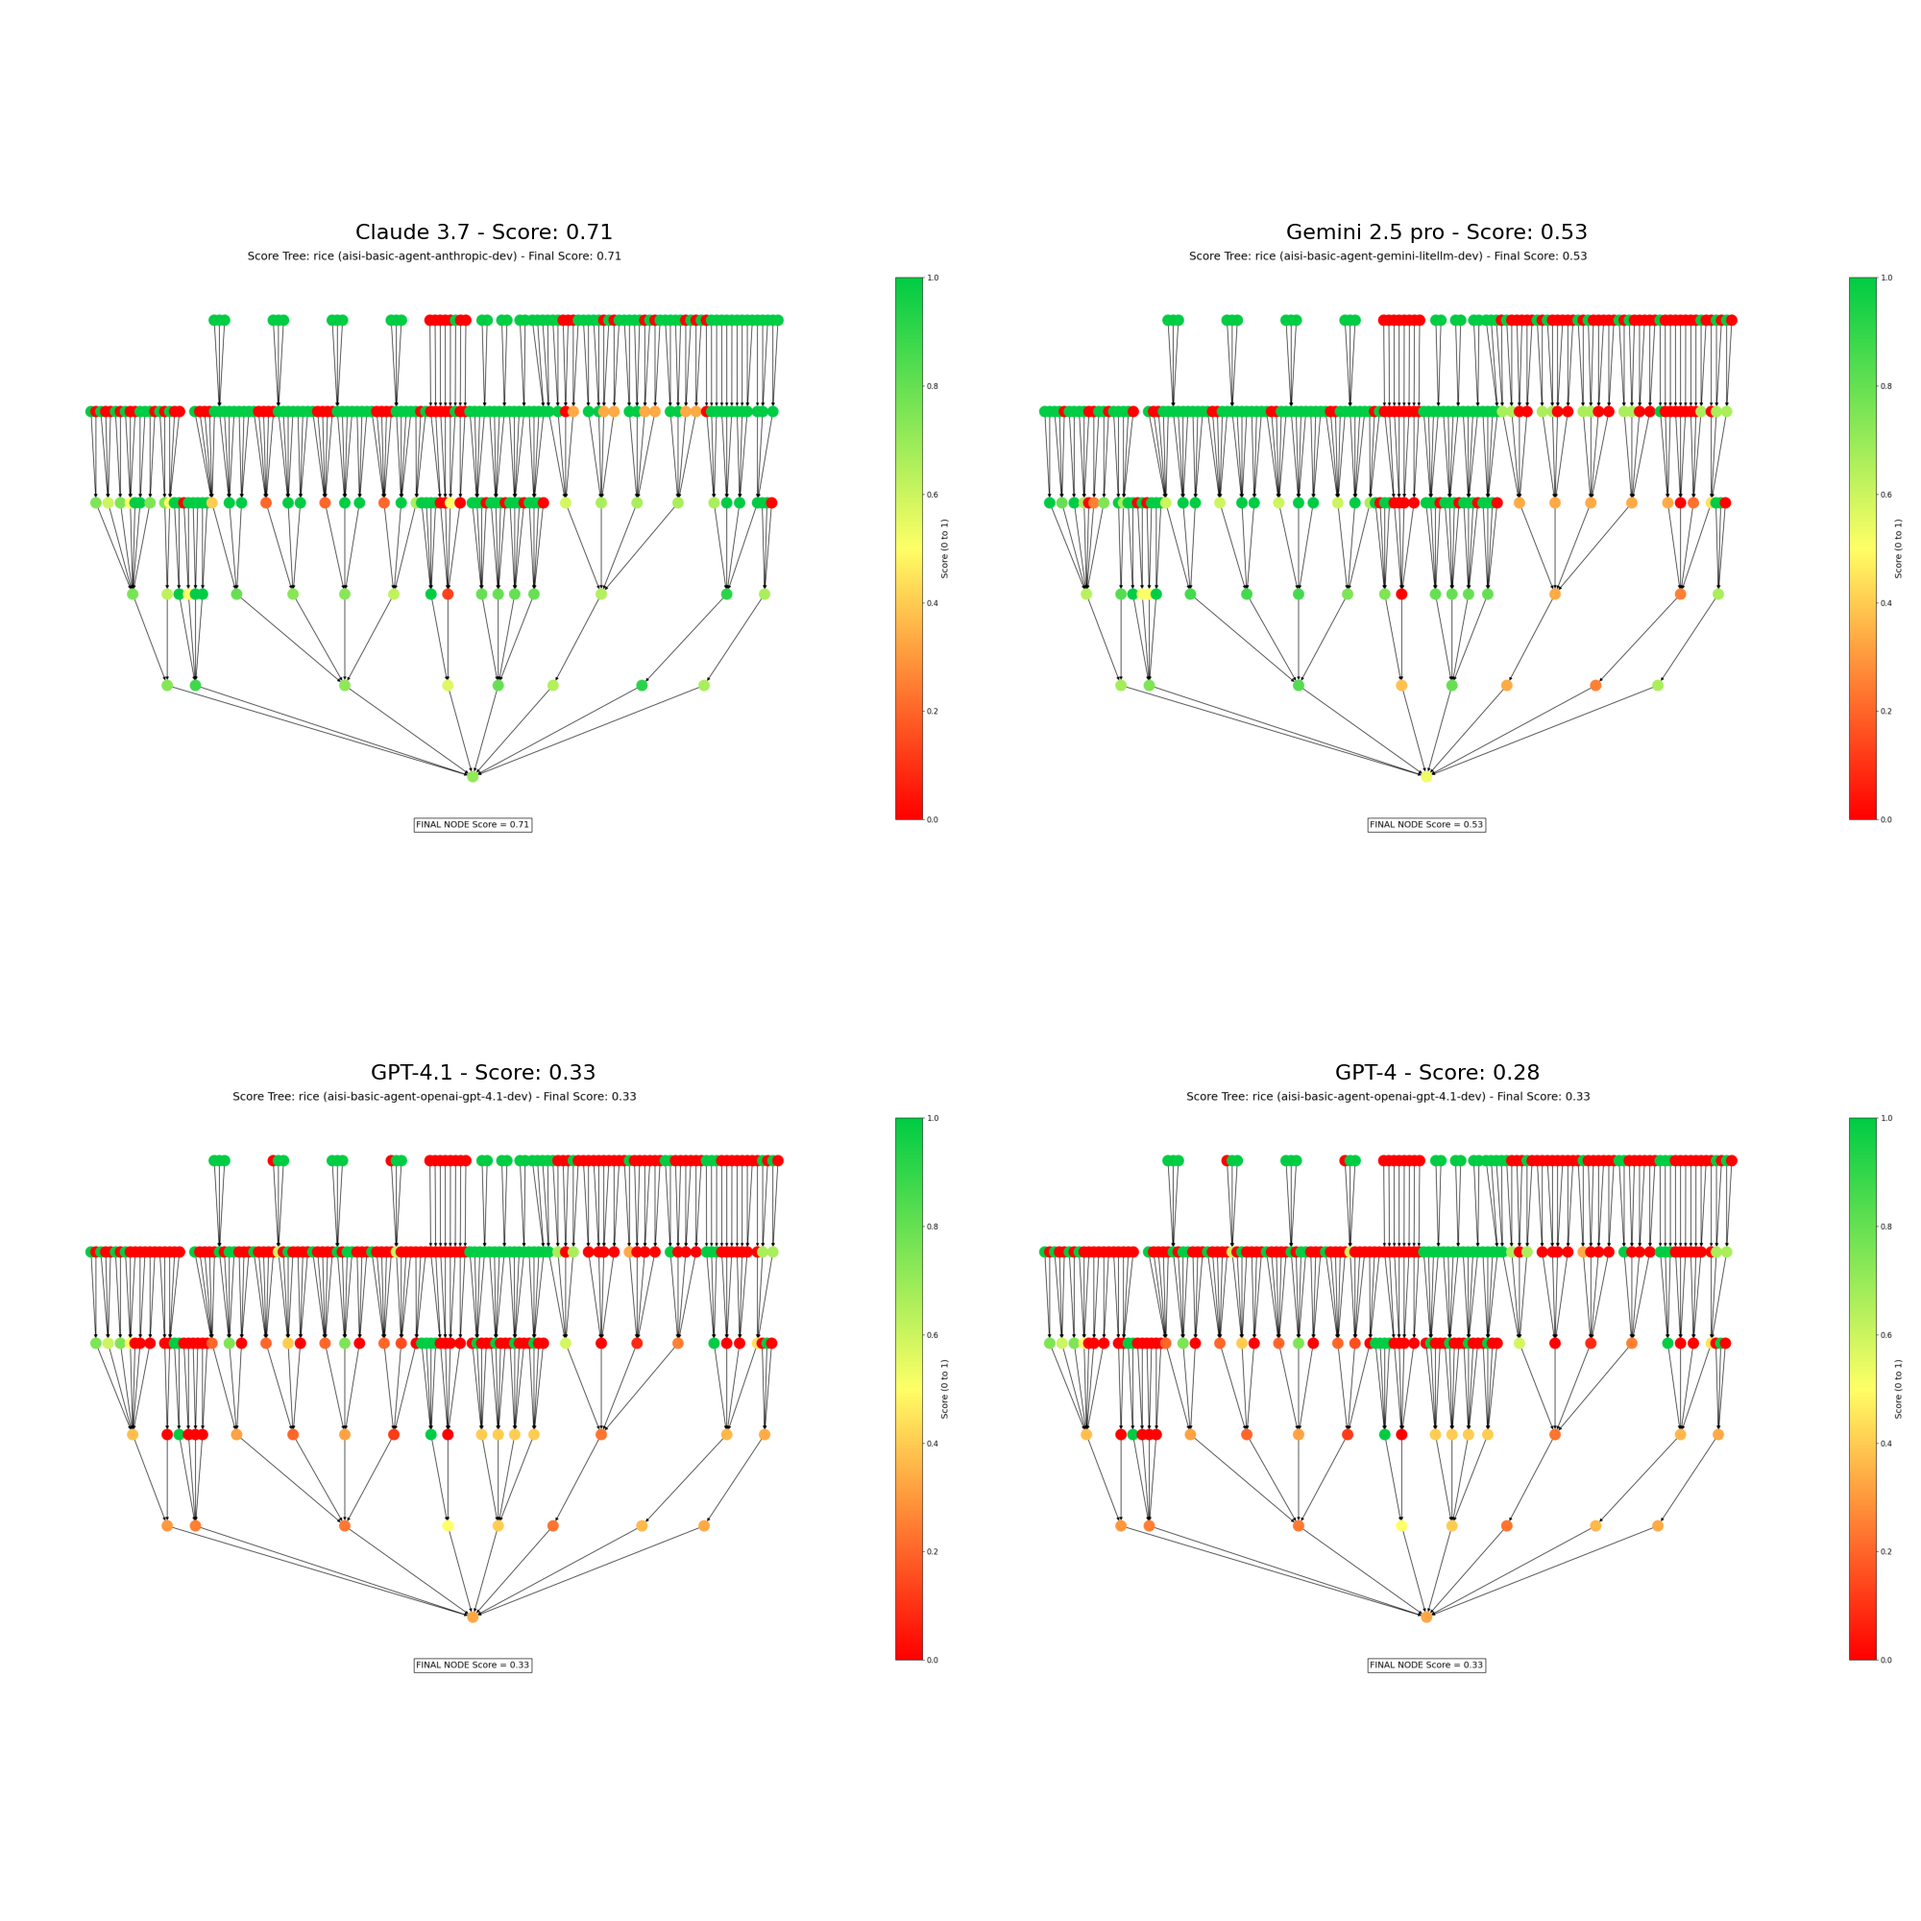
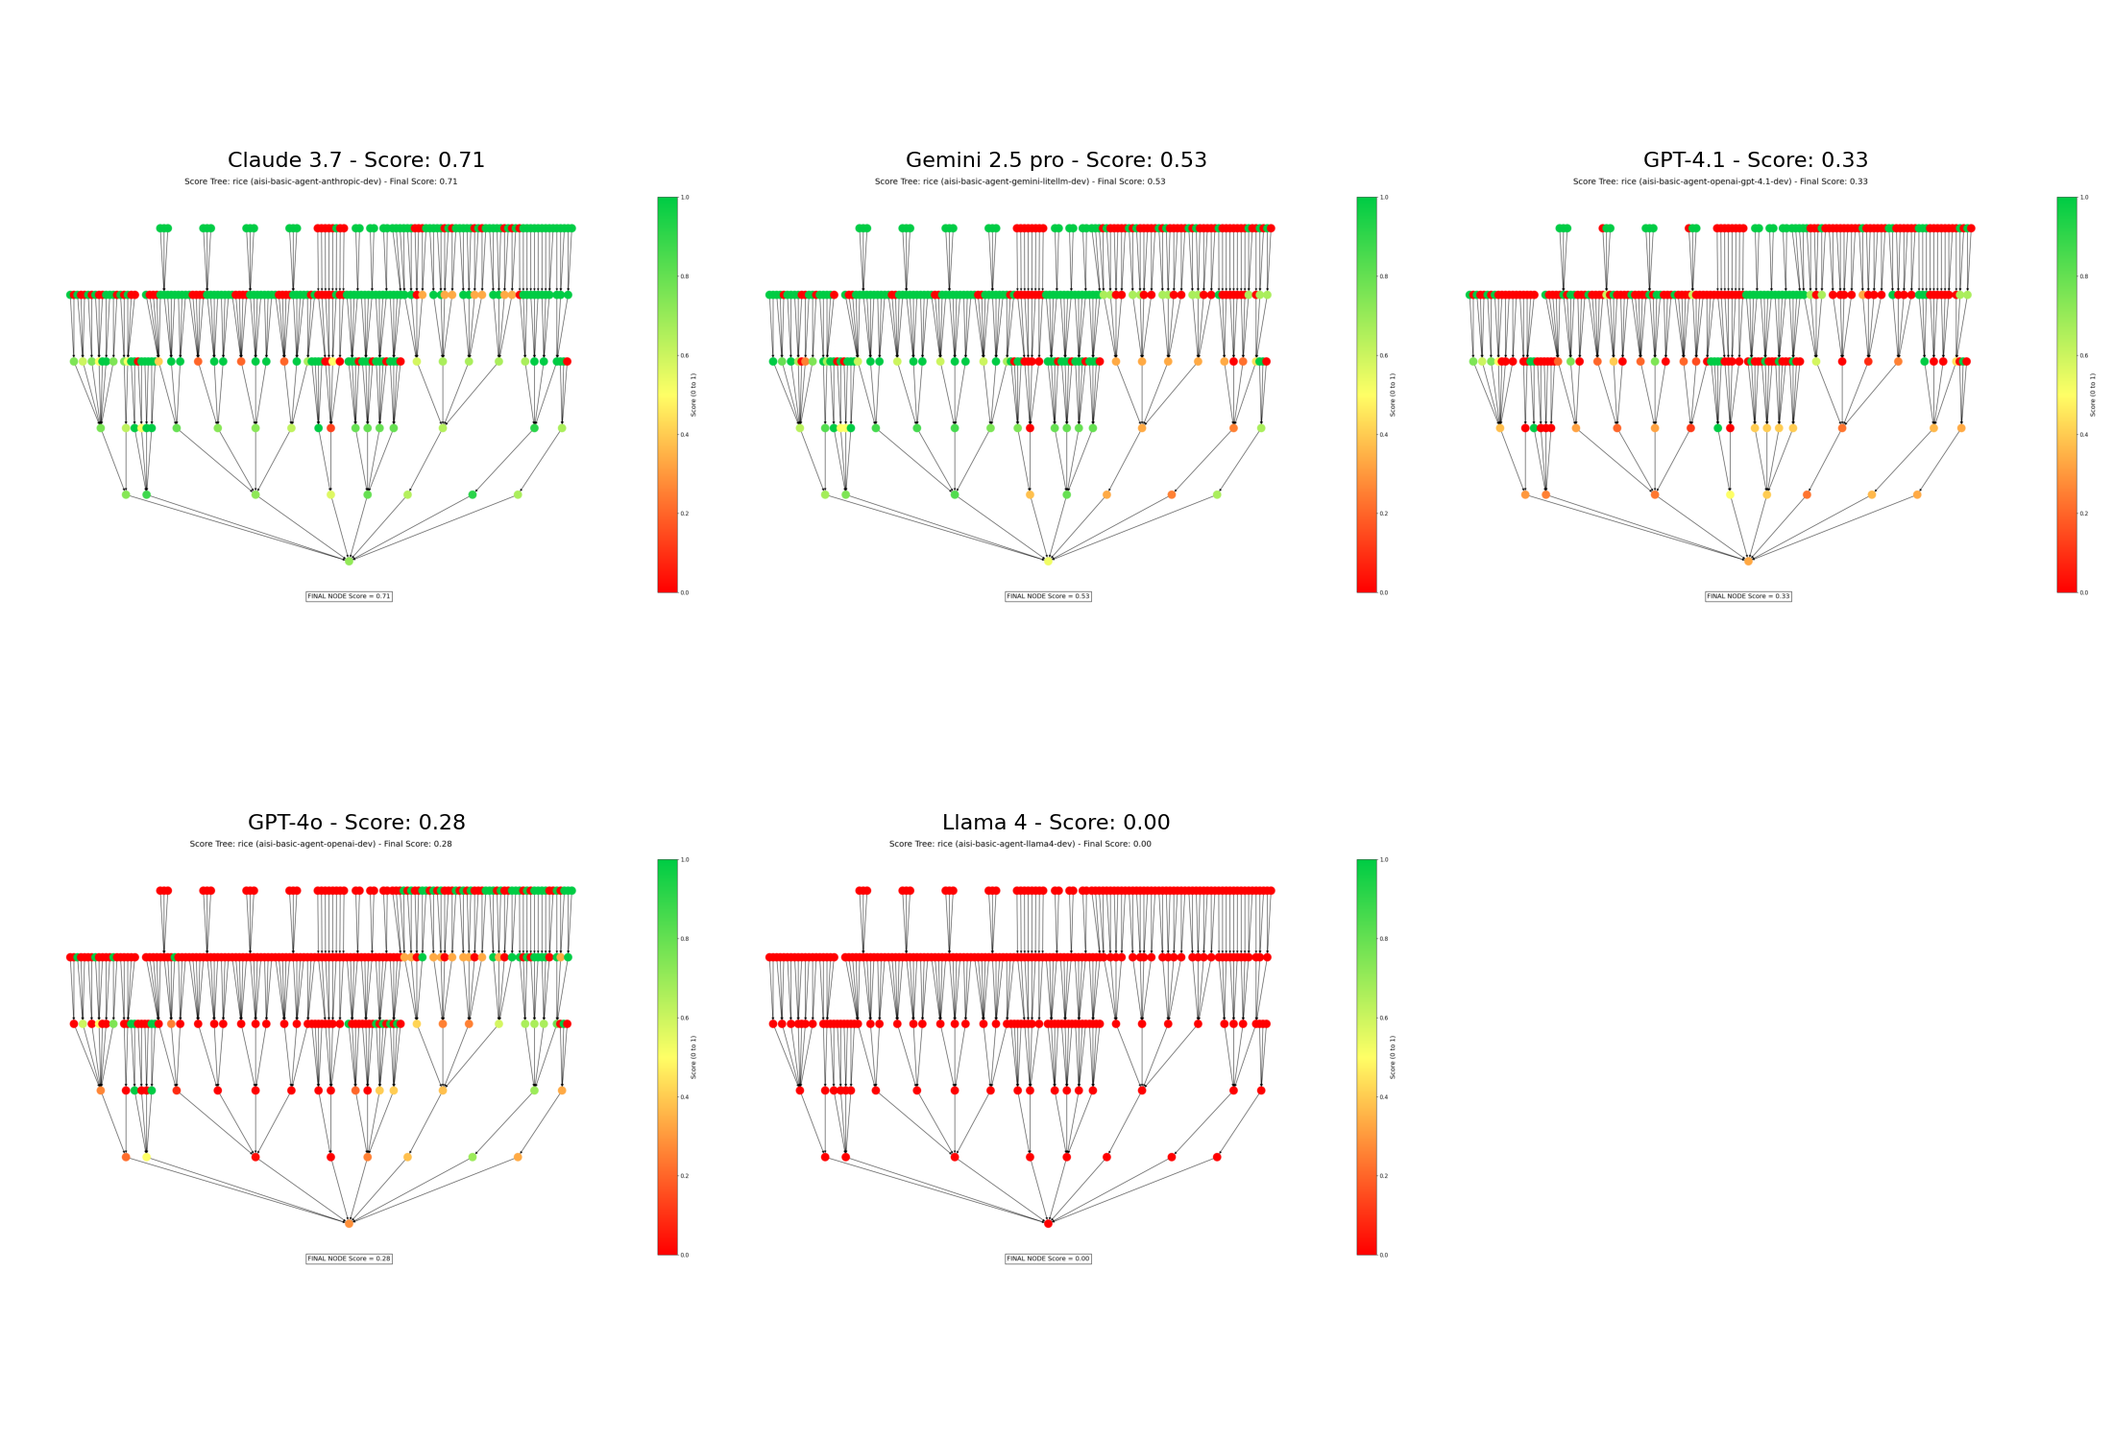
docs: update results table

diff --git a/project/paperbench/runs/compar.py b/project/paperbench/runs/compar.py
@@ -16,8 +16,6 @@ os.makedirs(output_dir, exist_ok=True)
 # Find all pb_result.json files in the runs directory and its subdirectories
 result_files = list(base_dir.glob("**/*pb_result.json"))
 print(f"Found {len(result_files)} result files")
-for rf in result_files:
-    print(f"  - {rf}")
 
 # Extract model data and scores
 model_data = []
@@ -31,7 +29,6 @@ for file_path in result_files:
         agent_match = ""
         parent_dir = file_path.parent.parent
         parent_path = str(parent_dir)
-        print(f"Analyzing parent directory: {parent_path}")
         
         parent_parts = parent_dir.name.split('_')
         for part in parent_parts:
@@ -42,8 +39,9 @@ for file_path in result_files:
         # Fall back to a substring if needed
         if not agent_match and len(parent_parts) > 3:
             agent_match = parent_parts[3]
-            
-        print(f"  Agent match found: {agent_match}")
+        
+        # Extract the full agent string for file matching
+        full_agent = "-".join(parent_dir.name.split('_')[2:])
         
         # Load JSON data
         with open(file_path, "r", encoding="utf-8") as f:
@@ -53,32 +51,29 @@ for file_path in result_files:
         root_task = data["paperbench_result"]["judge_output"]["graded_task_tree"]
         final_score = root_task.get("score", 0)
         
-        # Get model display name
+        # Get model display name based on the directory name
         if "anthropic" in parent_path.lower():
             display_name = "Claude 3.7"
+        elif "gpt-4.1" in parent_path.lower():
+            display_name = "GPT-4.1"
         elif "gpt-4o" in parent_path.lower() or "gpt4o" in parent_path.lower():
             display_name = "GPT-4o"
-        elif "gpt-4.1" in parent_path.lower() or "gpt4.1" in parent_path.lower():
-            display_name = "GPT-4.1"
-        elif "openai" in parent_path.lower():
-            display_name = "GPT-4"  # Default for other OpenAI models
         elif "llama" in parent_path.lower():
             display_name = "Llama 4"
         elif "litellm" in parent_path.lower() or "gemini" in parent_path.lower():
             display_name = "Gemini 2.5 pro"
         else:
-            display_name = agent_match
-        
-        print(f"  Identified as: {display_name}")
+            # 如果没有匹配到特定模型，显示默认名称
+            display_name = "Unknown Model"
+            print(f"Could not identify model from path: {parent_path}")
         
         # Store relevant data
         model_info = {
-            'agent_type': agent_match,
+            'agent_type': full_agent,  # Store the full agent string for file matching
             'display_name': display_name,
             'final_score': final_score,
             'file_path': file_path,
-            'model_name': model_name,
-            'parent_path': parent_path
+            'model_name': model_name
         }
         
         # Extract subtask scores if available
@@ -95,8 +90,13 @@ for file_path in result_files:
         print(f"Error processing {file_path}: {e}")
 
 print(f"Total models identified: {len(model_data)}")
-for model in model_data:
-    print(f"  - {model['display_name']} (from {model['parent_path']})")
+
+# Check which models from README.md are missing
+expected_models = ["Claude 3.7", "GPT-4o", "GPT-4.1", "Llama 4", "Gemini 2.5 pro"]
+found_models = [m['display_name'] for m in model_data]
+missing_models = [m for m in expected_models if m not in found_models]
+if missing_models:
+    print(f"WARNING: The following models from README.md are missing: {missing_models}")
 
 # Create comparison visualizations
 if model_data:
@@ -132,45 +132,57 @@ if model_data:
     plt.savefig(output_dir / "score_comparison.png")
     plt.close()
     
-    # 2. Grid of model trees - exactly 2x2
-    fig = plt.figure(figsize=(20, 20))
+    # 2. Grid of model trees - exactly 2x3 (to fit all 5 models plus empty space)
+    num_models = len(model_data)
+    rows = 2
+    cols = 3
     
-    # Create a simple 2x2 grid
-    gs = gridspec.GridSpec(2, 2, figure=fig)
+    fig = plt.figure(figsize=(22, 15))
+    
+    # Create a 2x3 grid 
+    gs = gridspec.GridSpec(rows, cols, figure=fig)
     
     # Add model thumbnail images from the tree visualizations
     for i, model in enumerate(model_data):
-        if i >= 4:  # Only show top 4 models
+        if i >= rows * cols:  # Should include all 5 models
             break
             
-        row_idx = i // 2
-        col_idx = i % 2
+        row_idx = i // cols
+        col_idx = i % cols
         
         ax = fig.add_subplot(gs[row_idx, col_idx])
         
-        # Get the visualization file for this model - try both possible naming patterns
+        # Get the visualization file for this model
+        # Use the exact file naming pattern that visal.py generates
         viz_file = output_dir / f"{model['model_name']}_{model['agent_type']}_tree.png"
         
-        # Check different possible filenames
-        if not viz_file.exists():
-            print(f"Looking for visualization file for {model['display_name']}")
-            print(f"  Tried: {viz_file}")
-            
-            # Try different ways to find the file
-            for potential_file in output_dir.glob(f"{model['model_name']}_*_tree.png"):
-                print(f"  Found potential match: {potential_file}")
-                viz_file = potential_file
-                break
-        
         if viz_file.exists():
-            print(f"Using visualization: {viz_file}")
             img = plt.imread(viz_file)
             ax.imshow(img)
             ax.set_title(f"{model['display_name']} - Score: {model['final_score']:.2f}", fontsize=16)
         else:
-            print(f"⚠ No visualization found for {model['display_name']}")
-            ax.text(0.5, 0.5, f"Visualization not available for {model['display_name']}", 
-                   ha='center', va='center', fontsize=12)
+            print(f"No visualization found for {model['display_name']}, tried: {viz_file}")
+            # Try to find by display name
+            potential_files = list(output_dir.glob(f"{model['model_name']}_*{model['display_name'].lower().replace(' ', '-').replace('.', '')}*_tree.png"))
+            if not potential_files:
+                # Try broader search
+                potential_files = list(output_dir.glob(f"{model['model_name']}_*_tree.png"))
+                for viz_path in potential_files:
+                    filename = str(viz_path.name).lower()
+                    model_keywords = model['display_name'].lower().split()
+                    if any(keyword in filename for keyword in model_keywords):
+                        viz_file = viz_path
+                        break
+            elif potential_files:
+                viz_file = potential_files[0]
+                
+            if viz_file.exists():
+                img = plt.imread(viz_file)
+                ax.imshow(img)
+                ax.set_title(f"{model['display_name']} - Score: {model['final_score']:.2f}", fontsize=16)
+            else:
+                ax.text(0.5, 0.5, f"Visualization not available for {model['display_name']}", 
+                       ha='center', va='center', fontsize=12)
         ax.axis('off')
     
     plt.tight_layout()
